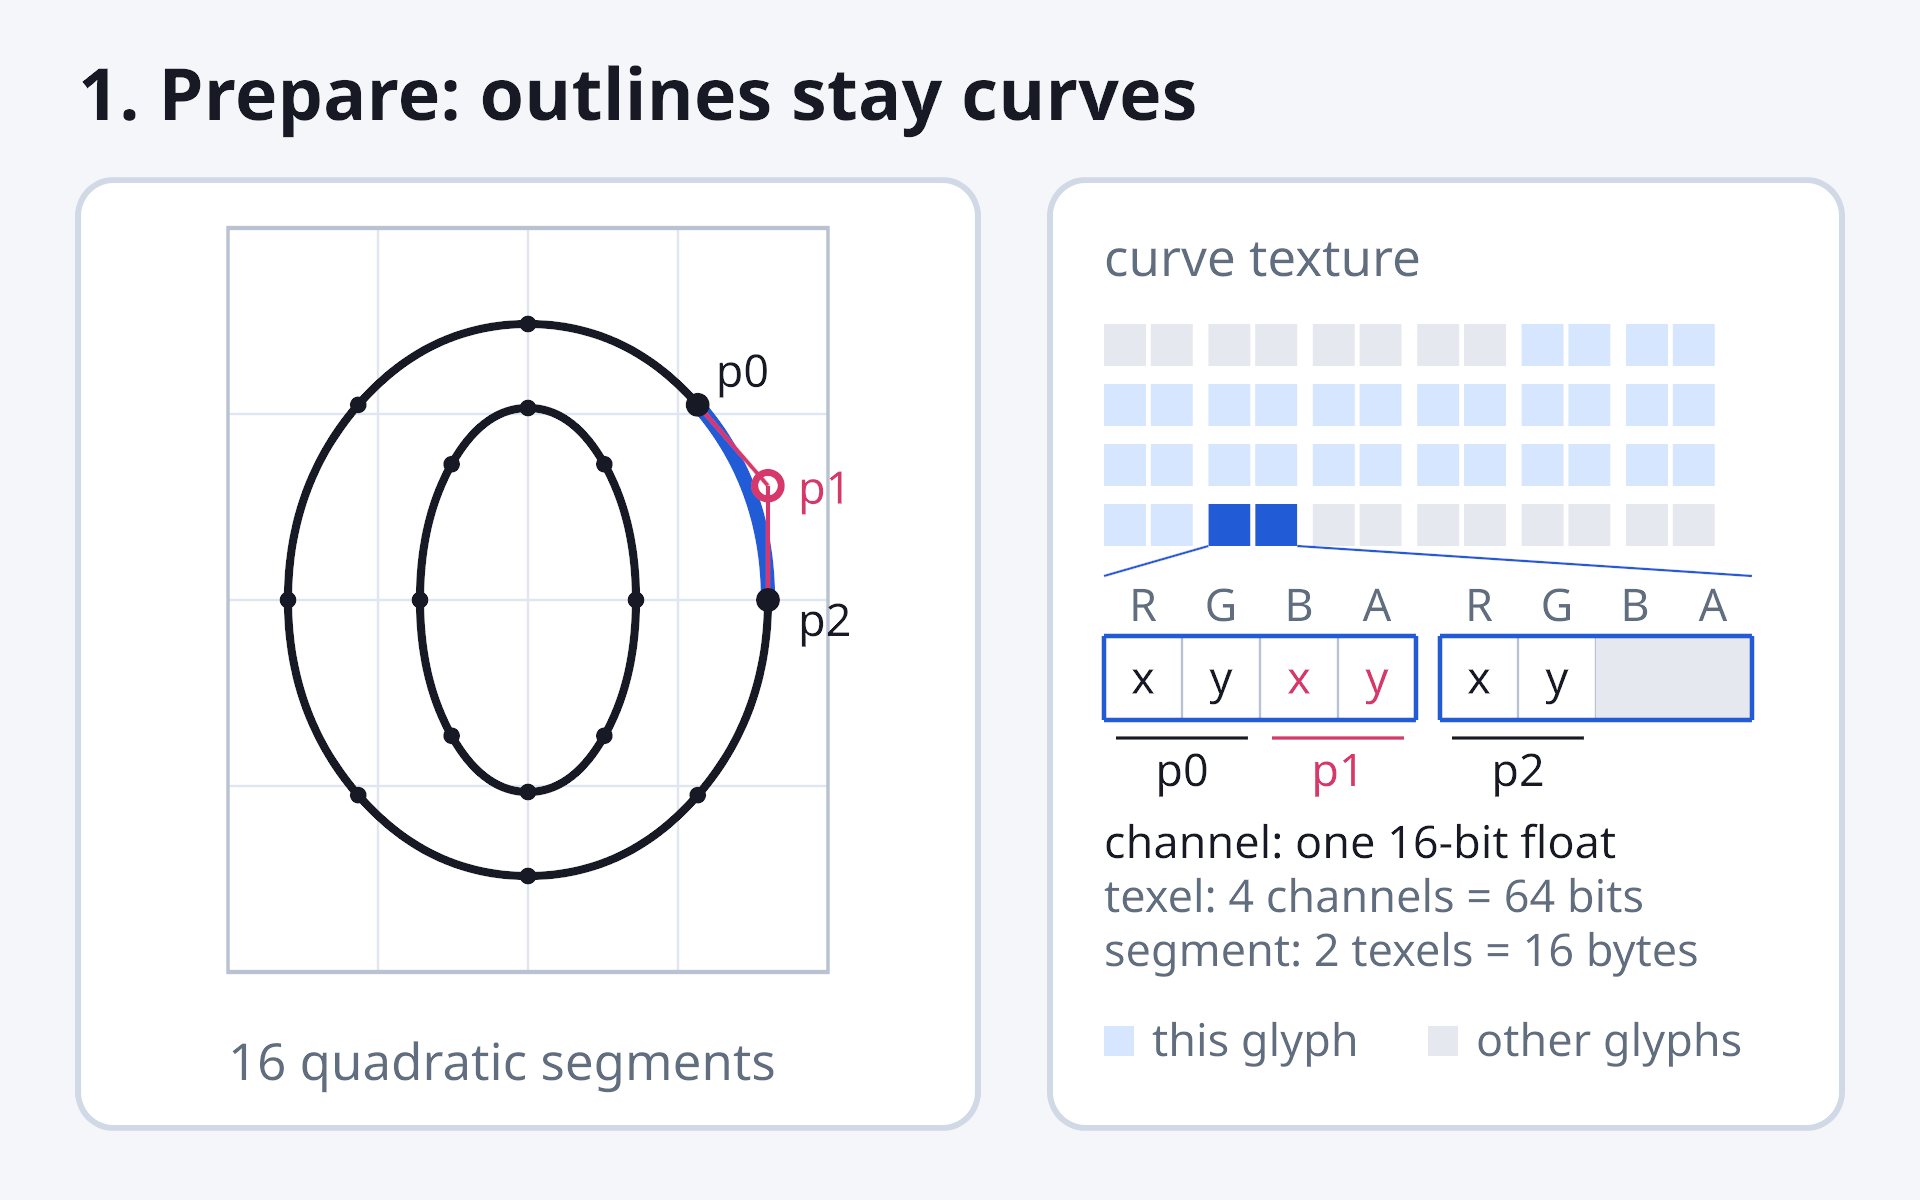
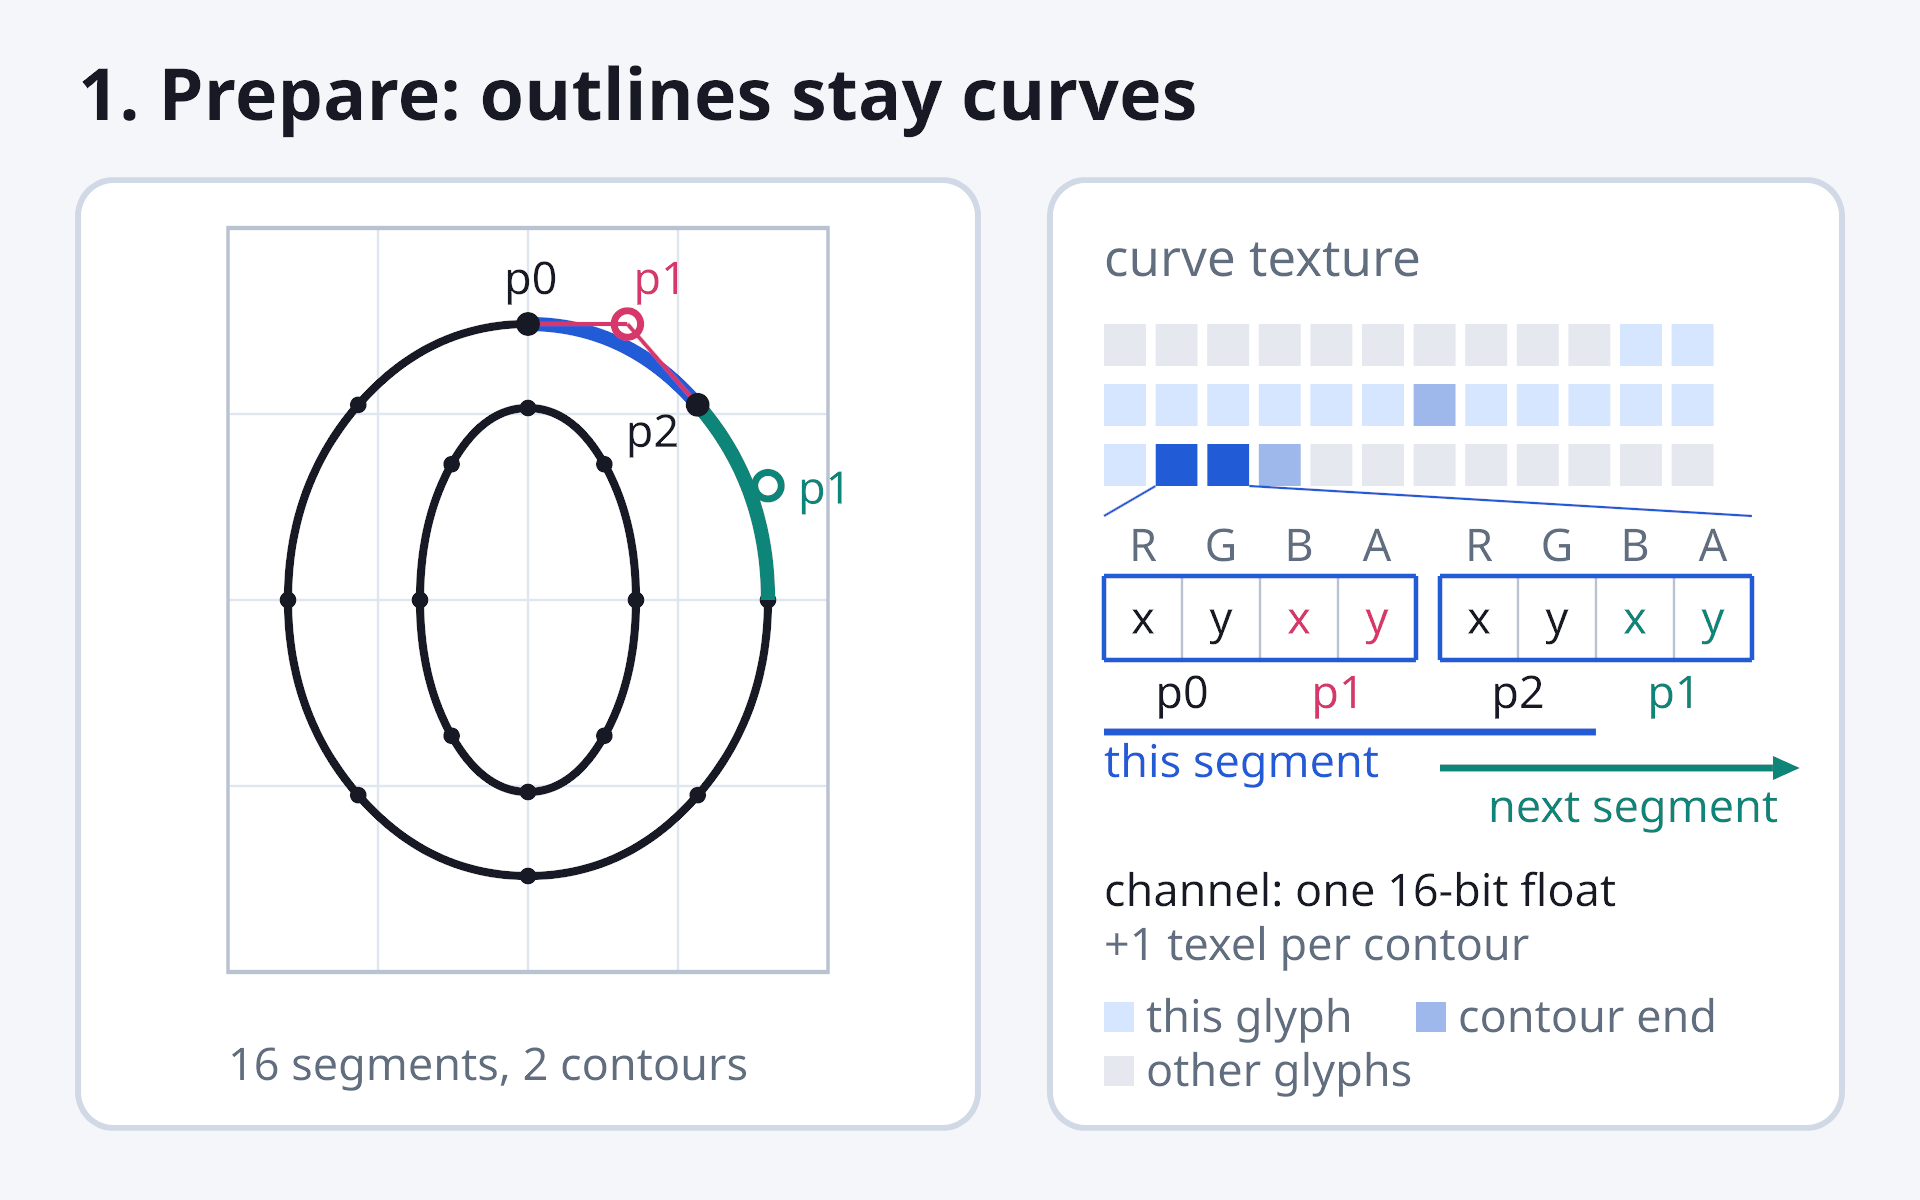
docs: describe chained curve storage; rewrite the Slug comparison
Diagram 1 shows the glyph as one run of single texels and the labeled
segment's second texel starting the next segment. The Slug comparison
states what snail keeps, then only the differences that hold in the
code, in plain terms.

diff --git a/README.md b/README.md
@@ -217,14 +217,14 @@ after their final GPU use completes. The same-pool `compact` convenience
 retains both persistent snapshots and therefore still needs result-sized
 free-page headroom.
 
-Font outlines containing only lines and quadratics use a two-texel dense
-segment format; general paths retain the four-texel format. Page height is a
+Font outlines (lines and quadratics only) store about one texel per segment
+(see [How it works](#how-it-works)); general paths use four. Page height is a
 host budget (`curve_words_per_page` / `band_words_per_page`), not a fixed
 shader dimension. Logical pages are allocated lazily. Array backends bank
 them in groups of 256; flat typed-buffer backends address them with fixed
 page strides. Either path avoids eviction solely because one texture array
 is full. The default packer considers only the 12 most recent pages and
-chooses the tightest fit across both curve and band capacity; set
+chooses the tightest fit across both curve and band capacity;
 `Atlas.Packing{ .recent_page_limit = 1 }` selects tail-only placement. The
 bounded window makes insertion cost independent of total atlas size.
 
@@ -254,19 +254,21 @@ are images.
 
 **1. Prepare: outlines stay curves.** A font outline is a list of line and
 quadratic segments. A quadratic has a start point `p0`, a control point `p1`,
-and an end point `p2`. Each segment is two `RGBA16F` texels (16 bytes) with
-one em-unit coordinate per 16-bit channel: `p0` and `p1` in the first, `p2`
-in the second. A glyph's segments are stored back to back. TrueType outlines
-are already quadratic. Cubics from CFF/CFF2 or paths are split at extrema and
-inflections, then approximated by quadratics certified against a tolerance
-(default `1/8192` em); if `f32` cannot represent a certified result,
-preparation returns a typed error. General paths use four texels per segment
-so they can also record each segment's kind and rational-conic weights.
+and an end point `p2`, stored as em-unit coordinates in `RGBA16F` texels, one
+16-bit float per channel: a segment reads `p0` and `p1` from its texel and
+`p2` from the next. That next texel also holds the following segment's
+control point, so it starts the following segment: a contour of n segments
+takes n + 1 texels. TrueType outlines are already quadratic. Cubics from
+CFF/CFF2 or paths are split at extrema and inflections, then approximated by
+quadratics certified against a tolerance (default `1/8192` em); if `f32`
+cannot represent a certified result, preparation returns a typed error.
+General paths use four texels per segment so they can also record each
+segment's kind and rational-conic weights.
 
 Unhinted and autohint records do not depend on size. TrueType-hinted records
 are prepared per ppem.
 
-<img src="assets/algorithm-curves.png?raw=true" alt="an 'o' outline with its 16 segment boundaries marked and one segment's p0, p1, p2 labeled; beside it, a stretch of the curve texture where the glyph is one run of texel pairs, with the labeled segment's two RGBA16F texels expanded: one coordinate per 16-bit channel, p0 and p1 in the first texel, p2 in the second" width="640">
+<img src="assets/algorithm-curves.png?raw=true" alt="an 'o' outline with its 16 segment boundaries marked and one segment's p0, p1, p2 labeled; beside it, the glyph as one run of single texels in the curve texture, with the labeled segment's two RGBA16F texels expanded: x and y per 16-bit channel, p0 and p1 in the first texel, p2 and the next segment's p1 in the second" width="640">
 
 **2. Prepare: bands index the curves.** The outline's bounds are cut into
 equal horizontal and vertical bands, 1 to 12 per axis depending on the
@@ -305,8 +307,8 @@ crosses a ray, and its direction there gives the crossing's sign. Before any
 root is used, the signs of the three control points relative to the sample
 index Slug's `0x2E74` table, which says whether zero, one, or two roots
 count. snail snaps values within `1/65536` of the ray to zero, so adjacent
-segments agree on their shared endpoint after f16 storage, and solves with a
-cancellation-resistant Vieta form. Lines follow the same rule; rational
+segments meeting on the ray make the same decision, and solves for roots in a
+form that avoids cancellation. Lines follow the same rule; rational
 conics apply it to their weighted control points.
 
 <img src="assets/algorithm-roots.png?raw=true" alt="a sample in the ring of the 'o' with a ray to the right crossing three edges and a ray upward crossing one, each crossing marked +1 or -1" width="640">
@@ -334,26 +336,28 @@ run-algorithm-diagrams` writes them to `zig-out/`.
 
 ### Differences from the public Slug reference
 
-The winding method, `0x2E74` root eligibility, directional coverage
-combination, half-pixel analytic ramp, sorted-curve early-out, `RG16UI` band
-data, and dynamic dilation follow the current public reference.
+snail keeps Slug's core: winding from signed ray crossings, the `0x2E74`
+root-eligibility table, the half-pixel coverage ramp blended across two
+rays, band lists sorted for early exit, `RG16UI` band data, and dynamic quad
+dilation. It differs here:
 
-| Public reference shader | snail |
-|---|---|
-| Selects one horizontal and one vertical band list at the sample center | Visits every band touched by the local pixel footprint and deduplicates shared curves |
-| Evaluates quadratic Béziers | Evaluates lines, quadratics, and rational conics; cubics are lowered on the CPU |
-| Stores a quadratic in two curve texels, often sharing endpoints | Uses two direct texels for font lines/quadratics; general paths use four for kind and conic metadata |
-| Uses raw floating-point sign bits for root eligibility | Snaps values within `1/65536` of the ray to positive zero before using the same table |
-| Uses the direct quadratic formula | Uses a cancellation-resistant, order-preserving Vieta form |
-| Accepts a caller-built bounding polygon | `emit` always produces a simple quad and the vertex shader dilates its four corners |
-| Covers the core GPU quadratic renderer | Adds shaping, fallback, CFF/CFF2, paths and paints, hinting, LCD modes, persistent atlas/upload APIs, and a CPU backend |
+| | Public reference shader | snail |
+|---|---|---|
+| Band lookup | One row and one column, at the pixel center | Every row and column the pixel's footprint spans; a curve listed in several is evaluated once |
+| Curve kinds | Quadratics | Lines, quadratics, and rational conics; cubics become quadratics on the CPU |
+| Curve storage | Two texels per quadratic, the second shared with the next curve | The same for font outlines; paths use four texels per segment to carry kind and conic weights |
+| Root eligibility | Sign bits of the control points | The same table, after rounding values within `1/65536` of the ray to zero so segments meeting on the ray agree |
+| Root solve | Quadratic formula | One root from the formula, arranged to avoid cancellation; the other from the product of the roots |
+| Draw geometry | Caller-supplied bounding polygon | One quad per shape |
 
-The band-span behavior is implemented in
-[`coverage_common.slang`](src/snail/shader/slang/coverage_common.slang) and
-used by regular text, COLRv0, hinted text, subpixel text, sampled text, and
-general paths. The CPU mirror is
-[`src/snail-raster/coverage.zig`](src/snail-raster/coverage.zig). Band
-construction and its 12-band heuristic are in
+Beyond the renderer, snail adds shaping, font fallback, CFF/CFF2 outlines,
+paths and paints, hinting, LCD antialiasing, a persistent atlas, and a CPU
+backend.
+
+Band spans are evaluated in
+[`coverage_common.slang`](src/snail/shader/slang/coverage_common.slang),
+mirrored on the CPU in
+[`coverage.zig`](src/snail-raster/coverage.zig); bands are built in
 [`band_texture.zig`](src/snail/format/band_texture.zig).
 
 ## Text and hinting
